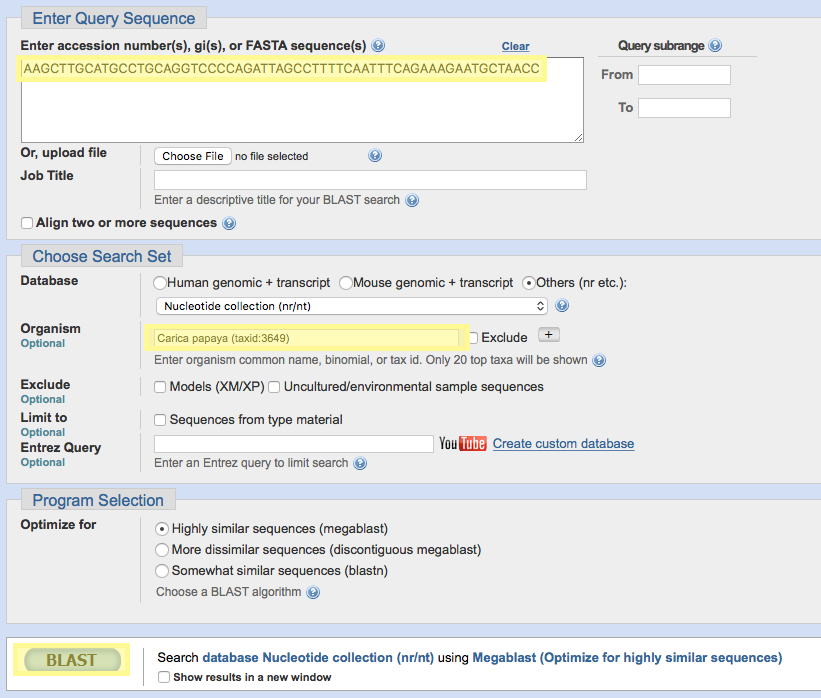
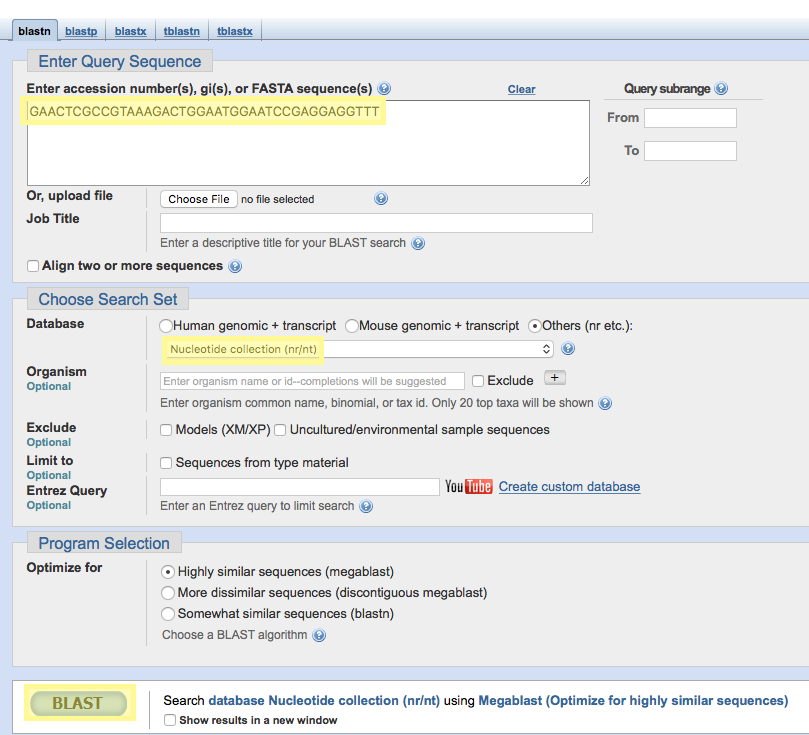
Initial Commit

diff --git a/README.md b/README.md
@@ -1,6 +1,6 @@
 # An Introduction to the NCBI and BLAST
 
-This module is a short introduction to the [National Center for Biotechnology Information](https://www.ncbi.nlm.nih.gov) - or "NCBI" for short - and an overview of the various tools available there to the public. Of these tools, we will focus mostly on BLAST - the Basic Local Alignment Search Toool. 
+This module is a short introduction to the [National Center for Biotechnology Information](https://www.ncbi.nlm.nih.gov) - or "NCBI" for short - and an overview of the various tools available there to the public. Of these tools, we will focus mostly on BLAST - the Basic Local Alignment Search Tool. 
 
 An outline for the module is below:
 
@@ -39,11 +39,11 @@ The [National Center for Biotechnology Information](https://www.ncbi.nlm.nih.gov
 
 With the rapid expansion of the availability of biological data in the Twentieth Century came the need for tools and software to both structure and query this data. This need brought together computer scientists, biologists, and government officials to help design and launch a variety of databases and protocols to assist researchers in both curating new knowledge and validating the old. For further reading, an interesting overview of the general history of bioinformatics (as related to computational structures) can be found [here](http://web.bf.uni-lj.si/bi/biokemija/bioinfo/2007/Material/Uvod1.pdf). 
 
-Though there are many different databases avialable for users, Some of the more well-known databases at the NCBI include:
+Though there are many different databases available for users, Some of the more well-known databases at the NCBI include:
 
-  * [GenBank](https://www.ncbi.nlm.nih.gov/genbank/): An annotated collection of all publically available nucloetide sequences and their protein translations. 
+  * [GenBank](https://www.ncbi.nlm.nih.gov/genbank/): An annotated collection of all publicly available nucleotide sequences and their protein translations. 
   * [PubMed](https://www.ncbi.nlm.nih.gov/pubmed): A search engine for accessing a variety of research publications (and their associated data) on life sciences and biomedical topics.
-  * [Sequence Read Archive](https://trace.ncbi.nlm.nih.gov/Traces/sra/sra.cgi?): Also known as the "Short Read Acrhive", the SRA is a bioinformatics database that provides a repository for sequencing data generated by next-generation, high-throuput sequencing - such as data generated for [RNA-Seq](https://www.ncbi.nlm.nih.gov/pmc/articles/PMC2949280/) or [ChIP-seq](http://bitesizebio.com/13541/an-introduction-to-chip-seq/) experiments. 
+  * [Sequence Read Archive](https://trace.ncbi.nlm.nih.gov/Traces/sra/sra.cgi?): Also known as the "Short Read Archive", the SRA is a bioinformatics database that provides a repository for sequencing data generated by next-generation, high-throuput sequencing - such as data generated for [RNA-Seq](https://www.ncbi.nlm.nih.gov/pmc/articles/PMC2949280/) or [ChIP-seq](http://bitesizebio.com/13541/an-introduction-to-chip-seq/) experiments. 
 
 A full list of the available resources and tools may be found [here](https://www.ncbi.nlm.nih.gov/guide/all/).
 
@@ -55,7 +55,7 @@ These different databases are all linked together by the [Entrez](https://en.wik
 </kbd>
 </p>
 
-As shown above: the query returend a rich selection of results that could be used to answer a variety of different scientific questions. If we were interested in DNA or RNA sequences, we would find them in the **Genome** database. If we were looking for human variations of the gene, we'd be able to find this in the **ClinVar** database, and so on. This kind of information retrieval is only possible because of the unified structures that exist between the databases and the Entrez search engine. 
+As shown above: the query returned a rich selection of results that could be used to answer a variety of different scientific questions. If we were interested in DNA or RNA sequences, we would find them in the **Genome** database. If we were looking for human variations of the gene, we'd be able to find this in the **ClinVar** database, and so on. This kind of information retrieval is only possible because of the unified structures that exist between the databases and the Entrez search engine. 
 
 ***
 
@@ -100,7 +100,7 @@ Importantly, many genes have thorough summaries that can provide the user with a
   * Adrenal insufficiency
   * Read hair
 
-Fascinating! There's a wide vairety of information to be found amongst the various databases that the NCBI has to offer. Take a few moments to explore the information available about the **POMC** gebe before moving on. 
+Fascinating! There's a wide variety of information to be found amongst the various databases that the NCBI has to offer. Take a few moments to explore the information available about the **POMC** gene before moving on. 
 
 From James Watson, Nobel laureate and co-discoverer of the structure of DNA:
 
@@ -111,7 +111,7 @@ From James Watson, Nobel laureate and co-discoverer of the structure of DNA:
 
 #### NCBI tools
 
-The tools available on the NCBI website provide users with a wide variety of ways to manipulate, investigate, and visualize biological data. An exhaustive list of these tools is avialable [here](https://www.ncbi.nlm.nih.gov/home/analyze.shtml). Some of the more popular tools provided by the NCBI include: 
+The tools available on the NCBI website provide users with a wide variety of ways to manipulate, investigate, and visualize biological data. An exhaustive list of these tools is available [here](https://www.ncbi.nlm.nih.gov/home/analyze.shtml). Some of the more popular tools provided by the NCBI include: 
 
   * The Open Reading Frame Finder (ORF Finder)
   * Electronic PCR (e-PCR)
@@ -185,7 +185,7 @@ By breaking the sequence down into smaller segments, the computational requireme
 
 ####Step 2: Identify high-scoring matches between query sequences and library sequences
 
-In order to "score" a match, a substiution matrix needs to be created so that we can compare values along a sequence to one another and measure their similarity. BLAST uses a Block Substitution Matrix (known as [BLOSUM](https://en.wikipedia.org/wiki/BLOSUM)). Each different iteration of BLAST uses a different substitution matrix: for protein-to-protein comparisons, the matrix is known as BLOSUM62. It looks like this:
+In order to "score" a match, a substitution matrix needs to be created so that we can compare values along a sequence to one another and measure their similarity. BLAST uses a Block Substitution Matrix (known as [BLOSUM](https://en.wikipedia.org/wiki/BLOSUM)). Each different iteration of BLAST uses a different substitution matrix: for protein-to-protein comparisons, the matrix is known as BLOSUM62. It looks like this:
 
 <p align="center">
 <kbd>
@@ -203,7 +203,7 @@ Query        NLY
 Subject   SSTNYAENTIQSIISTVEPAQR
 ```
 
-We know that when an `N` matches another `N`, this is scored as a 6. The `L`/`Y` mismatch is a -1. The `Y`/`A` mismatch is a -2. Thus the "score" for this word is a 3. In the original instance of BLAST, only words whose matchines scores were above 18 were used as "seeds" to extend the alignment. As it turns out, no single word in our query sequence has a sufficiently high enough score to proceed. However, when multiple words are used to build the string, this may not be true! For example:
+We know that when an `N` matches another `N`, this is scored as a 6. The `L`/`Y` mismatch is a -1. The `Y`/`A` mismatch is a -2. Thus the "score" for this word is a 3. In the original instance of BLAST, only words whose matching scores were above 18 were used as "seeds" to extend the alignment. As it turns out, no single word in our query sequence has a sufficiently high enough score to proceed. However, when multiple words are used to build the string, this may not be true! For example:
 
 ```
 Query           ENFVQA 
@@ -248,7 +248,7 @@ If the queried sequence matches the library sequence and is deemed to be statist
 
 ***
 
-...confused by the sentence above regarding statistical significance and multiple testing? That's okay - statistics can be confusing. However, BLAST (and many algorithms like it) are inherently *statistical* by nature: they are making heurestic judgements based on probabilities that matches are true and not false positives. Gaining a deeper knowledge of statistics is crucial to a career in bioinformatics - or biology in general. Some good resources for learning are [here](http://chagall.med.cornell.edu/BioinfoCourse/PDFs/Lecture3/bioinformatics_tutorial.pdf) and [here](https://cran.r-project.org/doc/contrib/Seefeld_StatsRBio.pdf).
+...confused by the sentence above regarding statistical significance and multiple testing? That's okay - statistics can be confusing. However, BLAST (and many algorithms like it) are inherently *statistical* by nature: they are making heuristic judgments based on probabilities that matches are true and not false positives. Gaining a deeper knowledge of statistics is crucial to a career in bioinformatics - or biology in general. Some good resources for learning are [here](http://chagall.med.cornell.edu/BioinfoCourse/PDFs/Lecture3/bioinformatics_tutorial.pdf) and [here](https://cran.r-project.org/doc/contrib/Seefeld_StatsRBio.pdf).
 
 ***
 
@@ -270,10 +270,10 @@ Subject     MFFTISTHKM SSIADRNDGS
 ```
 Query       MLFTVSCSKMSSIVDRDDSS  
             M FT+S  KMSSI DR+D S
-Sbjct       MFFTISTHKMSSIADRNDGS  
+Subject     MFFTISTHKMSSIADRNDGS  
 ```
 
-This is the first twenty amino acids of the [CLOCK](http://www.uniprot.org/uniprot/O15516) protein. This protein plasy a vital role in regulating various physiological processes associated with the circadiam rhythm. The query sequence is from *Homo sapiens*, the library sequence is from *Gallus gallus*, the domesticated chicken. Turns out this is a pretty highly conserved protein between species! 
+This is the first twenty amino acids of the [CLOCK](http://www.uniprot.org/uniprot/O15516) protein. This protein plays a vital role in regulating various physiological processes associated with the circadian rhythm. The query sequence is from *Homo sapiens*, the library sequence is from *Gallus gallus*, the domesticated chicken. Turns out this is a pretty highly conserved protein between species! 
 
 ***
 
@@ -472,7 +472,7 @@ Effectively, what you've just done is gone "dumpster diving" in the *Drosophila*
 </kbd>
 </p>
 
-As we've already learned, a [promoter](https://en.wikipedia.org/wiki/Promoter_(genetics)) is a region of DNA that initiatives the transcription of a gene. The majority of genetically modified plants have been transformed with constructs containing the [Cauliflower Mosaic Virus](https://en.wikipedia.org/wiki/Cauliflower_mosaic_virus) (CaMV) 35s promoter (P-35S) due to its unique characteristics as a strong constitutive promoter. We hypothesize then that we should be able to design a primer *in silico* using `PRIMER3` and align such a primer against a target genome to find potential [amplicons](https://en.wikipedia.org/wiki/Amplicon) for that primer. We will do this by designing a primer from the CaMV35S promotoer and aligning it to the *Carica papaya* genome. 
+As we've already learned, a [promoter](https://en.wikipedia.org/wiki/Promoter_(genetics)) is a region of DNA that initiatives the transcription of a gene. The majority of genetically modified plants have been transformed with constructs containing the [Cauliflower Mosaic Virus](https://en.wikipedia.org/wiki/Cauliflower_mosaic_virus) (CaMV) 35s promoter (P-35S) due to its unique characteristics as a strong constitutive promoter. We hypothesize then that we should be able to design a primer *in silico* using `PRIMER3` and align such a primer against a target genome to find potential [amplicons](https://en.wikipedia.org/wiki/Amplicon) for that primer. 
 
 ***
 
@@ -502,7 +502,7 @@ Next, go to the [Primer3](http://biotools.umassmed.edu/bioapps/primer3_www.cgi) 
 </kbd>
 </p>
 
-This will return a list of primers. Choose the primers from the top and copy and paste them. **Note**: there are ocassions where the first primer returned may not be the most desirable. In this situation, feel free to use any of the additional oligos returned at the bottom of the page. 
+This will return a list of primers. Choose the primers from the top and copy and paste them. **Note**: there are occasions where the first primer returned may not be the most desirable. In this situation, feel free to use any of the additional oligos returned at the bottom of the page. 
 
 <p align="center">
 <kbd>
@@ -510,7 +510,7 @@ This will return a list of primers. Choose the primers from the top and copy and
 </kbd>
 </p>
 
-Next, return to [BLAST](https://blast.ncbi.nlm.nih.gov/Blast.cgi?PROGRAM=blastn&PAGE_TYPE=BlastSearch&LINK_LOC=blasthome) and run a a nucleotide-to-nucleotide search using `blastn`. Paste your primer into the query sequence area and run a BLAST search against *Carica papaya*. 
+Next, return to [BLAST](https://blast.ncbi.nlm.nih.gov/Blast.cgi?PROGRAM=blastn&PAGE_TYPE=BlastSearch&LINK_LOC=blasthome) and run a a nucleotide-to-nucleotide search using `blastn`. Paste your primer into the query sequence area and run a BLAST search against the entire nucleotide collection. Note that I have extracted just the nucleotide sequence from the primer results above. Note that this may take some time to run. 
 
 <p align="center">
 <kbd>
@@ -518,11 +518,4 @@ Next, return to [BLAST](https://blast.ncbi.nlm.nih.gov/Blast.cgi?PROGRAM=blastn&
 </kbd>
 </p>
 
-A-ha! We have exactly one amplicon - from our transgenic papaya (as expected). Click the small link to the GenBank file.
-
-<p align="center">
-<kbd>
-  <img src="Promoter_Five.png"/>
-</kbd>
-</p>
 
